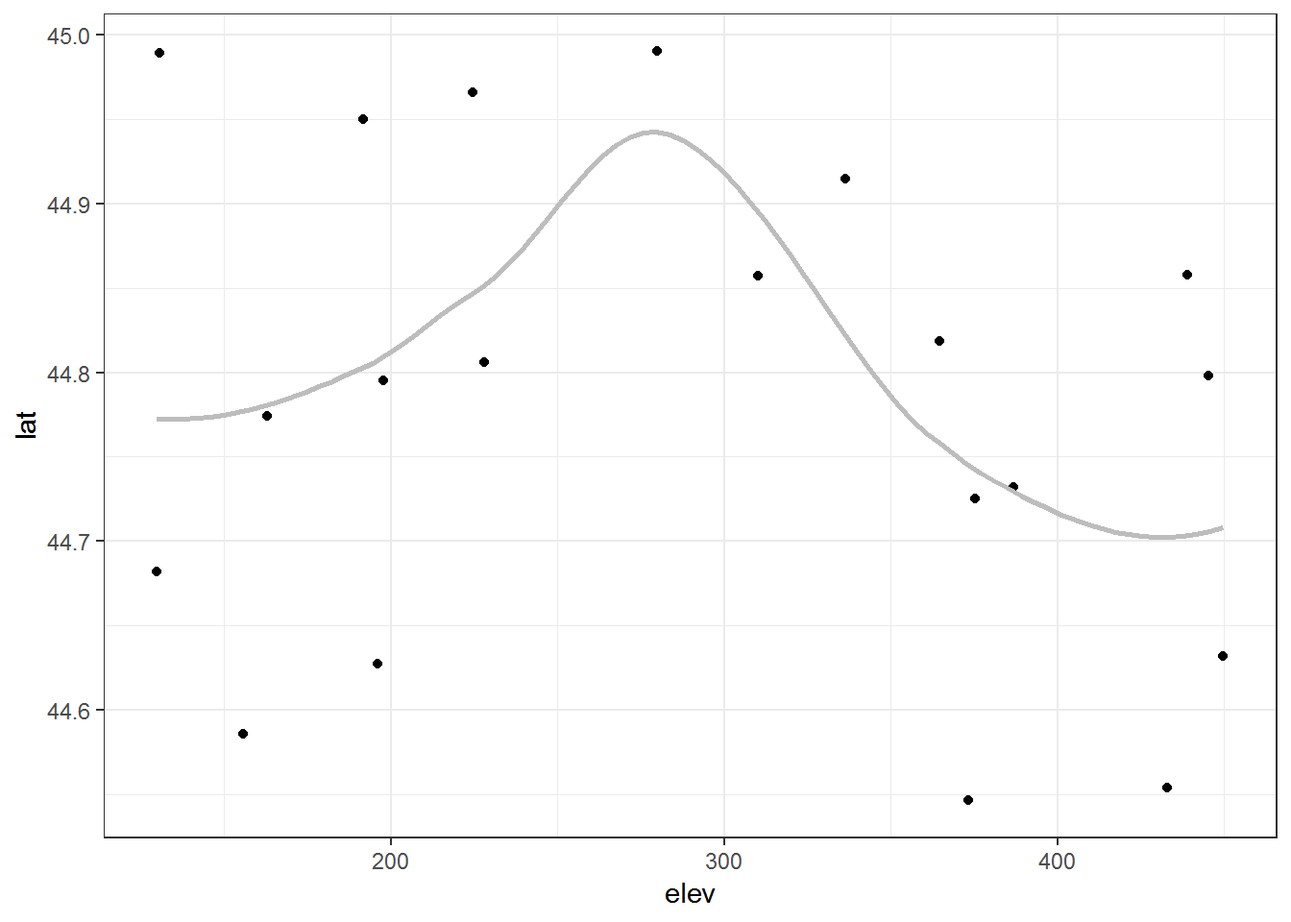
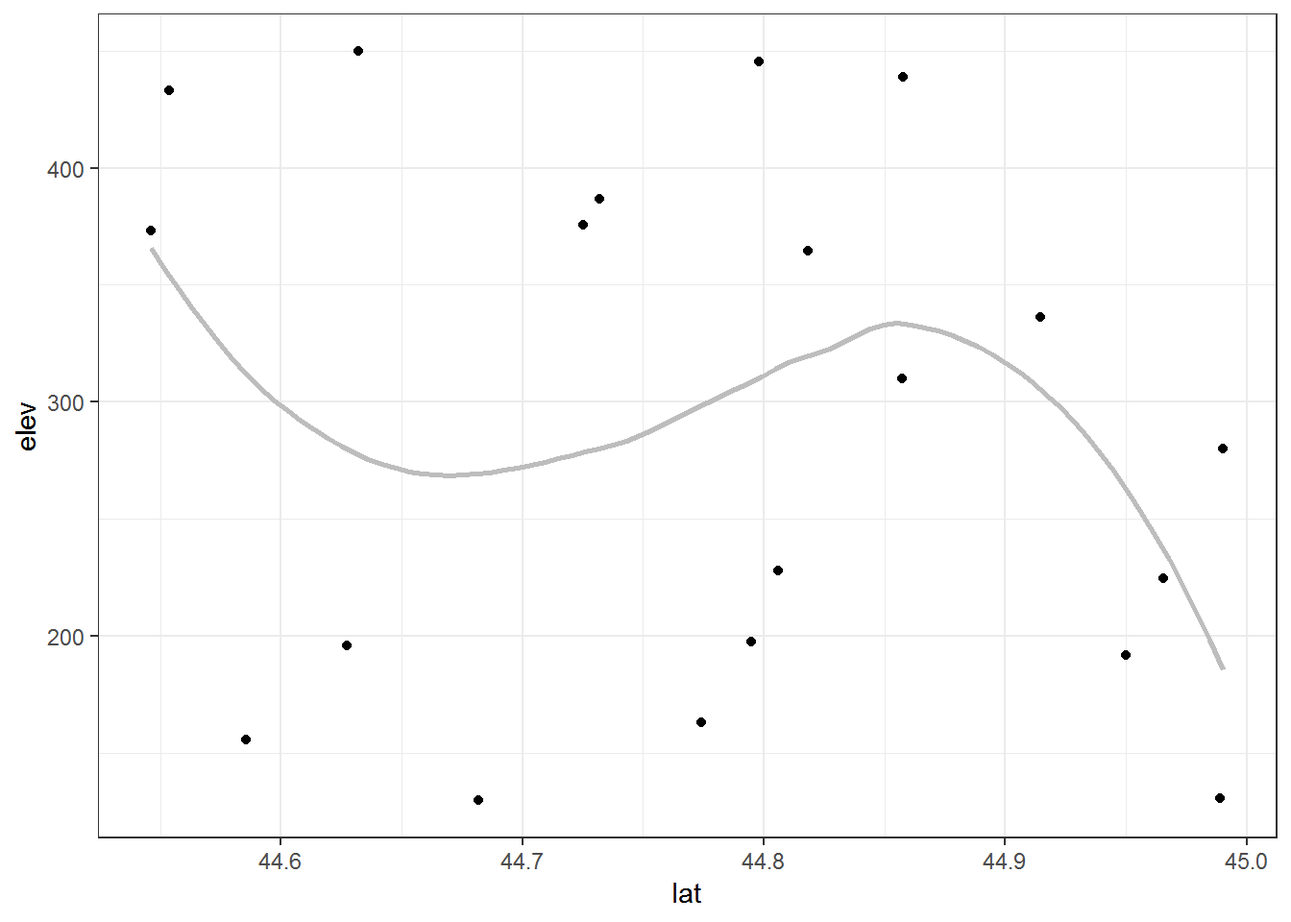
Edits to exploratory plots post

diff --git a/content/post/2018-08-16-automating-exploratory-plots.html b/content/post/2018-08-16-automating-exploratory-plots.html
@@ -9,20 +9,25 @@ tags:
   - ggplot2
   - purrr
 draft: TRUE
-description: "Here I show an example of how to automate the process of making many exploratory plots in ggplot2 with multiple continuous response and explanatory variables.  To loop through both x and y variables involves nested looping.  I end the post talking about some options for saving the results, either individually in a single document, separately, or by stitching plots together prior to saving."
+description: "I show an example of how to automate the process of making many exploratory plots in ggplot2 with multiple continuous response and explanatory variables.  To loop through both x and y variables involves nested looping.  I also spend time reviewing the options for saving the results, either individually in a single document, separately, or by combing plots together into one prior to saving."
 ---
 
 
 
+<p>There have been plenty of times in my own work where I’ve had a lot of variables and needed to make many exploratory plots. I’ve found it’s usually worthwhile to automate the process in R instead of manually copying and pasting code for every single plot.</p>
+<p>However, the coding approach needed to automate plots can look pretty daunting to a beginner R user. It can look so daunting, in fact, that it can appear easier to manually make the plots (like in Excel) rather than using R.</p>
+<p>Unfortunately making plots manually can backfire, as the efficiency of using a software program you already know is quickly out-weighed by being unable to easily reproduce the plots. I know I invariably have to re-make even exploratory plots, and I don’t think my experience is unusual.</p>
+<p>So while I often assure students working under time constraints that it is perfectly OK to use software they already know rather than spending the time to learn how to do something in R, making plots is a special case. I like to students who need to automate plotting in R by providing code with fairly detailed explanation to get them started.</p>
+<p>This post is based on an example I was working on recently, which involves plotting bivariate relationships between many continuous variables.</p>
 <div id="load-r-packages" class="section level1">
 <h1>Load R packages</h1>
-<p>I’ll be plotting with <strong>ggplot2</strong> and doing looping with <strong>purrr</strong>. I’ll also be using package <strong>cowplot</strong> later to stitch together plots, but won’t load it since it changes the theme in <strong>ggplot2</strong>.</p>
+<p>I’ll be plotting with <strong>ggplot2</strong> and looping with <strong>purrr</strong>. I’ll also be using package <strong>cowplot</strong> later to combine individual plots into one, but will use the package functions using <code>cowplot::</code> instead of loading the package.</p>
 <pre class="r"><code>library(ggplot2) # v. 3.0.0
 library(purrr) # v. 0.2.5</code></pre>
 </div>
 <div id="the-set-up" class="section level1">
 <h1>The set-up</h1>
-<p>Today I’m going to make an example dataset with 3 response (y) variables and 4 explanatory (x) variables.</p>
+<p>Today I’m going to make an example dataset with 3 response (<code>y</code>) variables and 4 explanatory (<code>x</code>) variables.</p>
 <pre class="r"><code>set.seed(16)
 dat = data.frame(elev = round( runif(20, 100, 500), 1),
                  resp = round( runif(20, 0, 10), 1),
@@ -39,11 +44,11 @@ head(dat)</code></pre>
 # 4 191.8  4.3 0.07 29.6 44.95022 122.7290 19
 # 5 445.4  2.3 0.43 16.5 44.79784 122.9836 15
 # 6 224.5  6.5 0.78  4.1 44.96576 122.9836 21</code></pre>
-<p>As you can see, every variable is in a separate column. The goal is to make scatterplots for every response variable vs every explanatory variable, where I’ve deemed the first three in the dataset to be the response variables.</p>
-<p>In order to automate things I’m going to need vectors of the variable names to loop through, one for the response and one for the explanatory. If all of your variables share some unique names there are some clever ways to pull out the names of only those variables with some of the select helper functions in <code>dplyr::select()</code>. Alas, mine are all unique. I can either write them out manually or pull the names out by index. I’ll do the latter.</p>
+<p>As you can see, every variable is in a separate column. The goal is to make scatterplots for every response variable vs every explanatory variable. I’ve deemed the first three variables in the dataset to be the response variables.</p>
+<p>In order to automate things I’m going to need vectors of the variable names to loop through, one vector for the response variables and one for the explanatory variables. If all of your response or explanatory variables share some unique pattern in the name there are some clever ways to pull out the names with some of the select helper functions in <code>dplyr::select()</code>. Alas, my variable names are all unique. I can either write them out manually or pull the names out by index. I’ll do the latter.</p>
 <pre class="r"><code>response = names(dat)[1:3]
 expl = names(dat)[4:7]</code></pre>
-<p>When I know I’m going to be looping through character vectors I like to use <em>named</em> vectors to help me keep track of things. The <code>set_names()</code> function in <strong>purrr</strong> is super handy for this, since it will use the values of the vector as names if you don’t supply them (i.e., the vector will be named by itself). This is great for character vectors but I don’t recommend trying this with lists of data.frames like I did, since naming a data.frame with a data.frame just isn’t so useful. 😆</p>
+<p>When I know I’m going to be looping through character vectors I like to use <em>named</em> vectors to help me keep track of things in the output. The <code>set_names()</code> function in <strong>purrr</strong> is super handy for this, since it can use the values of the vector as names (i.e., the vector will be named by itself). This is great for character vectors but I don’t recommend trying this with lists of data.frames like I have in the past, since naming a data.frame with a data.frame isn’t so useful. 😆</p>
 <pre class="r"><code>response = set_names(response)
 response</code></pre>
 <pre><code>#   elev   resp   grad 
@@ -55,20 +60,21 @@ expl</code></pre>
 </div>
 <div id="create-a-graphing-function" class="section level1">
 <h1><a href="#create-a-graphing-function">Create a graphing function</a></h1>
-<p>Since I want a bunch of different plots that nominally have the same form, I can make a function that takes the <code>x</code> and <code>y</code> variables as inputs. In this case I’m making a function to do the work on a single dataset, so the dataset is hard-coded into the function. If you have multiple datasets or you are making a function for use across projects you’ll probably want to use that as a function argument, instead.</p>
-<p>Because the inputs are based on the names, these are strings. We can use strings in <strong>ggplot2</strong> by using <code>aes_string()</code>.</p>
-<p>I’m making a pretty basic graph here since there are exploratory plots. I’m going to add the points as well as a loess line (I use such lines with great caution, as it can be easy to get too attached to what a locally weighted regression line shows).</p>
+<p>Since I’m going to make a bunch of plots that will all have the same form, I can make a function that where only <code>x</code> and <code>y</code> variables vary. In this case I’m making a function to make plots from a single dataset, so I’m going to hard-code the dataset into the function. If you have multiple datasets or you are making a function for use across projects you’ll likely want to add the dataset as a function argument.</p>
+<p>Since the inputs are based on the variable names, so have to be passed into the <strong>ggplot2</strong> functions as strings. Strings can not be used directly in <code>aes()</code>, but can be directly in <code>aes_string()</code>.</p>
+<p>I’m making a pretty basic graph since there are exploratory plots, not publication ready plots. I will make a scatterplot and add locally weighted regression (loess) lines via <code>geom_smooth()</code>. I use such lines with great caution, as it can be easy to get too attached to what the loess line shows.</p>
 <pre class="r"><code>scatter_fun = function(x, y) {
      ggplot(dat, aes_string(x = x, y = y) ) +
           geom_point() +
           geom_smooth(se = FALSE, color = &quot;grey74&quot;) +
           theme_bw()
 }</code></pre>
-<p>Here’s an example of the output, passing in <code>x</code> and <code>y</code> as strings. (What a great example of how small samples can demonstrate strong patterns even when we know the variables aren’t related!).</p>
-<pre class="r"><code>scatter_fun(&quot;elev&quot;, &quot;lat&quot;)</code></pre>
+<p>Here’s an example of the function output, passing in <code>x</code> and <code>y</code> as strings.</p>
+<pre class="r"><code>scatter_fun(&quot;lat&quot;, &quot;elev&quot;)</code></pre>
 <p><img src="/post/2018-08-16-automating-exploratory-plots_files/figure-html/unnamed-chunk-7-1.png" width="672" /></p>
-<p><em>Aside</em>: The <code>aes_string()</code> function has been soft deprecated as of <strong>ggplot2</strong> 3.0.0 and the <strong>tidyeval</strong> methods are now available. For basic functions like mine this new framework is pretty straightforward to use. However, right or wrong, I’ve been hestiant to send code that contains it to the beginner R users I work with. I think the code looks comparatively complicated and “scary” looking compared to using <code>aes_string()</code>.</p>
-<p>To be thorough, below is an example of the same function using <strong>tidyeval</strong>. The output graphic is the same.</p>
+<p><em>Aside</em>: The <code>aes_string()</code> function has been soft deprecated as of <strong>ggplot2</strong> 3.0.0 and <strong>tidyeval</strong> methods are now available. For basic functions like mine this new framework is pretty straightforward to use. However, right or wrong, I’ve been hesitant to send code that contains tidyeval code to the beginner R users I generally work with on these tasks. I think the code looks complicated and “scary” compared to using <code>aes_string()</code>; I may change my mind with time.</p>
+<p>To be thorough, here is an example of the same function using <strong>tidyeval</strong>. I use <code>sym()</code> instead of <code>quo</code> because the inputs are strings.</p>
+<p>The output graphic is the same.</p>
 <pre class="r"><code>scatter_fun2 = function(x, y) {
      ggplot(dat, aes(x = !!sym(x), y = !!sym(y) ) ) +
           geom_point() +
@@ -76,15 +82,15 @@ expl</code></pre>
           theme_bw()
 }
 
-scatter_fun2(&quot;elev&quot;, &quot;lat&quot;)</code></pre>
+scatter_fun2(&quot;lat&quot;, &quot;elev&quot;)</code></pre>
 <p><img src="/post/2018-08-16-automating-exploratory-plots_files/figure-html/unnamed-chunk-8-1.png" width="672" /></p>
 </div>
 <div id="looping-through-one-vector-of-variables" class="section level1">
 <h1><a href="#looping-through-one-vector-of-variables">Looping through one vector of variables</a></h1>
-<p>One way to use this function is to fix the response variable and loop through the explanatory variables, making a plot for each one. That way each response variable has a separate list as output.</p>
-<p>I will use <code>map()</code> from package <strong>purrr</strong> to loop through each explanatory variable and plot it. I’ll fix the response variable to <code>elev</code>.</p>
+<p>One way to use this function is to loop through each explanatory variable for a fixed response variable. I will use <code>map()</code> from package <strong>purrr</strong> to loop through the explanatory variables.</p>
+<p>I pass each explanatory variable to the first argument in <code>scatter_fun()</code> and I fix the second argument to <code>&quot;elev&quot;</code>. I use the formula coding in <code>map()</code> and so refer to the element of the explantory vector via <code>.x</code>.</p>
 <pre class="r"><code>elev_plots = map(expl, ~scatter_fun(.x, &quot;elev&quot;) )</code></pre>
-<p>This makes four plots, one for each explanatory variable. You’ll notice that each element of the list (so each plot) has a variable name associated with it. This is why I used <code>set_names()</code> earlier, because this is convenient for printing and, you’ll see later, is convenient when saving the plots with useful names.</p>
+<p>The output is a list of 4 plots (since there are four explanatory variables). You’ll notice that each element of the list has the variable name associated with it. This is why I used <code>set_names()</code> earlier, since this is convenient for printing the plots and, you’ll see later, is convenient when saving the plots to files with understandable names.</p>
 <pre class="r"><code>elev_plots</code></pre>
 <pre><code># $slp</code></pre>
 <p><img src="/post/2018-08-16-automating-exploratory-plots_files/figure-html/unnamed-chunk-10-1.png" width="672" /></p>
@@ -100,14 +106,14 @@ scatter_fun2(&quot;elev&quot;, &quot;lat&quot;)</code></pre>
 </div>
 <div id="looping-through-both-vectors" class="section level1">
 <h1><a href="#looping-through-both-vectors">Looping through both vectors</a></h1>
-<p>The work above works well for only a few response variables. But it still involves using the same code for each set of plots, which can get burdensome of there are a lot of response variables.</p>
-<p>It is possible to loop through both vectors of variables. Because we want a plot for each combination of variables, this is a job for a <em>nested</em> loop. This means I will do one <code>map()</code> loop inside another.</p>
-<p>The code gets more complicated. If using the formula coding like I did above, I found it takes more work to understand how to refer to the variable in the outer loop within the inner loop. The answers to <a href="https://stackoverflow.com/questions/48847613/purrr-map-equivalent-of-nested-for-loop">this question</a> on Stack Overflow were useful for this (including some of the comments to answers). One approach is to avoid the formula coding all together and use anonymous functions for either or both inner and outer loops.</p>
-<p>I loop first through the response variables and make graphs with all of the explanatory variables for each one with the nested inner loop. This puts the output, a nested list, in a convenient order.</p>
-<p>Since my scatterplot function is simple, I ended up using formula coding for the outer loop and simply listed the function in the inner loop. The inner list elements are then fed to the first argument in <code>scatter_fun()</code> (which makes sense since these are the <code>x</code> variables). The <code>.x</code> then refers to the outer list elements, and this is passed to the <code>y</code> argument in the second <code>map()</code>.</p>
+<p>For only a few response variables we could easily copy and paste the code, changing the hard-coded response variable each time. This process can get burdensome of there are a lot of response variables, though.</p>
+<p>It is possible to loop through both vectors of variables. Because we want a plot for each combination of variables, this is a job for a <em>nested</em> loop. This means I will do one <code>map()</code> loop inside another. I will refer to the first <code>map()</code> as the <em>outer</em> loop and the second one as the <em>inner</em> loop.</p>
+<p>The nested loop leads to more complicated code. I found it takes more work to understand how to refer to the list element from the outer loop within the inner loop if I want to stick to using the <code>map()</code> formula coding I used above. I found the answers/comments to <a href="https://stackoverflow.com/questions/48847613/purrr-map-equivalent-of-nested-for-loop">this question</a> on Stack Overflow helpful in understanding how to approach nested loops via <code>map()</code>. One approach is to avoid the formula coding all together and use anonymous functions for either or both the inner and outer loops.</p>
+<p>I’m going to have the response variables in the outer loop and the explanatory variables in the inner loop. That way I graph all of the explanatory variables for each response variable before moving on to the next response variable. This puts the output, a nested list, in a logical order.</p>
+<p>Since my scatterplot function is simple, I ended up using formula coding for the outer loop and the function as is in the inner loop. The inner list elements are fed to the first argument of <code>scatter_fun()</code> (which works great since the first argument is for the <code>x</code> variables). The <code>.x</code> then refers to the outer list elements, which are passed to the <code>y</code> argument in the inner loop.</p>
 <pre class="r"><code>all_plots = map(response,
                 ~map(expl, scatter_fun, y = .x))</code></pre>
-<p>The output is a list of lists. Each sublist is all the plots for a single response variable (remember, I planned things this way). Because I set the names on the two vectors, both the inner and outer lists have names.</p>
+<p>The output is a list of lists. Each sublist is all the plots for a single response variable. Because I set the names for the two vectors of variable names, both the inner and outer lists have names. These can be used to pull out individual plots.</p>
 <p>For example, if I want to see all the plots for the <code>grad</code> response variable I can print that sublist by name. (I’m going to show only two of four <code>grad</code> plots here to save space.)</p>
 <pre class="r"><code>all_plots$grad</code></pre>
 <pre><code># $slp</code></pre>
@@ -115,33 +121,35 @@ scatter_fun2(&quot;elev&quot;, &quot;lat&quot;)</code></pre>
 <pre><code># 
 # $lat</code></pre>
 <p><img src="/post/2018-08-16-automating-exploratory-plots_files/figure-html/unnamed-chunk-13-2.png" width="576" /></p>
-<p>If I want to see a single plot, I can also use the names to extract it.</p>
+<p>If I want to see a single plot, I can first extract one of the sublists using one of the outer list names and then extact the individual plot via an inner list name.</p>
 <pre class="r"><code>all_plots$grad$long</code></pre>
 <p><img src="/post/2018-08-16-automating-exploratory-plots_files/figure-html/unnamed-chunk-14-1.png" width="672" /></p>
-<p>I find the names convenien, but I can always extract via position, as well. Here’s the same graph as above.</p>
+<p>I find the names convenient, but you can also extract plost via position. Here’s the same graph, the third element of the third list.</p>
 <pre class="r"><code>all_plots[[3]][[3]]</code></pre>
 <pre><code># `geom_smooth()` using method = &#39;loess&#39; and formula &#39;y ~ x&#39;</code></pre>
 <p><img src="/post/2018-08-16-automating-exploratory-plots_files/figure-html/unnamed-chunk-15-1.png" width="672" /></p>
 <div id="saving-the-plots" class="section level2">
 <h2><a href="#saving-the-plots">Saving the plots</a></h2>
-<p>Once you have all the graphs, you can print them to your console by running the list name to look at them. But if you want to puruse them at your leisure or send them to a collaborator you’ll want to save them. This next section is dedicated to exploring some of the ways you can do this.</p>
+<p>Once we have all the graphs, we can look at them in R by printing the list or parts of the list as above. But if you want to peruse them at your leisure or send them to a collaborator you’ll want to save them outside of R.</p>
+<p>This next section is dedicated to exploring some of the ways you can do this.</p>
 </div>
 <div id="saving-all-plots-to-one-pdf" class="section level2">
 <h2><a href="#saving-all-plots-to-one-pdf">Saving all plots to one PDF</a></h2>
-<p>If you want to save every plot as a separate page in a PDF, you can do so with the <code>pdf()</code> function. The code below shows that the plot must be initialized, then all plots put in it, and then the device turned off. If you skip the last step you won’t be able to open the output document.</p>
-<p>This is a coarse way to save everything, but also allows you to easily page through all the plots and revisit as necessary. I’ve found this useful when I had many exploratory plots that I wanted to share with collaborators.</p>
-<p>In this example code I save the file I name <code>all_scatterplots</code> into the working directory.</p>
+<p>If you want to save every plot as a separate page in a PDF, you can do so with the <code>pdf()</code> function. The code below shows how this work. A graphics device to save the plots into is created and given a name via <code>pdf()</code>, all the plots are put into that device, and then the device turned off with <code>dev.off()</code>. The last step is important, as you can’t open the file until the device is turned off.</p>
+<p>I’d say this is a pretty coarse way to save everything, but it allows you to easily page through all the plots. I’ve used this method when I had many exploratory plots for a single response variable that I wanted to share with collaborators.</p>
+<p>In this example code I save the file, which I name <code>all_scatterplots.pdf</code>, into the working directory.</p>
 <pre class="r"><code>pdf(&quot;all_scatterplots.pdf&quot;)
 all_plots
 dev.off()</code></pre>
 </div>
 <div id="saving-groups-of-plots-together" class="section level2">
 <h2><a href="#saving-groups-of-plots-together">Saving groups of plots together</a></h2>
-<p>Another option, for organization, is to save each group of plots to a separate list. This may make sense in this case where there are separate response variables to think about.</p>
-<p>To save each sublist separately we need to loop through <code>all_plots</code> and save it into a separate file. The list names can be used in the plot names.</p>
-<p>The functions in <strong>purrr</strong> that start with <code>i</code> are special functions that loop through a list and the names of the list simultaneously, which is handy for a case like this where we have names to identify the plots.</p>
-<p>The <code>walk()</code> function is part of the <code>map</code> family of functions uses the function only for the side effect. This is what we want for saving plots, since our goal is not to output a new list but simply save the one we have.</p>
-<p>Combining the <code>i</code> and the <code>walk</code> gives as the <code>iwalk()</code> function. In the formula function interface, <code>.y</code> refers to the names of the list and <code>.x</code> to the list elements. I create the plot file names using the list name combined with “scatterplots.pdf”.</p>
+<p>Another option is to save each group of plots to a separate document. This may make sense in a case like this where there are a group of plots for separate response variables so we might want a separate file of plots for each one.</p>
+<p>To save each sublist separately we need to loop through <code>all_plots</code> and save the plots for each response variable as a separate file. The list names can be used in the file names.</p>
+<p>The functions in <strong>purrr</strong> that start with <code>i</code> are special functions that loop through a list and the names of that list simultaneously. This is a convenient function in a case like this where we want to use the list names to identify the output files.</p>
+<p>The <code>walk()</code> function is part of the <code>map</code> family, to be used when you want to use a function for its side effects instead of for the return value. This is exactly what we are doing when looping and saving plots, since our goal is not to make a new list but to save the one we have.</p>
+<p>Combining the <code>i</code> and the <code>walk</code> gives us the <code>iwalk()</code> function. In the formula interface, <code>.y</code> refers to the names of the list and <code>.x</code> to the list elements. I create the plot file names using the list name combined with “scatterplots.pdf”.</p>
+<p>The code below makes three files, one for each response variable, with four plots each. The files are named “elev_scatterplots.pdf”, “resp_scatterplots.pdf”, and “grad_scatterplots.pdf”.</p>
 <pre class="r"><code>iwalk(all_plots, ~{
      pdf(paste(.y, &quot;scatterplots.pdf&quot;, sep = &quot;_&quot;) )
      print(.x)
@@ -150,8 +158,9 @@ dev.off()</code></pre>
 </div>
 <div id="saving-all-plots-separately" class="section level2">
 <h2><a href="#saving-all-plots-separately">Saving all plots separately</a></h2>
-<p>We’d need to use the names in both the outer and inner lists to appropriately identify each plot. I decided to this by looping through <code>all_plots</code> and the names of the list via <code>imap()</code> to create names. This time I’m going to save these as PNG files.</p>
-<p>The result will be a list of lists still, so I flatten the list into a single list via <code>flatten()</code>. If I use <code>flatten()</code> earlier I lose the names in the outer list. This process of combining names will be simplified once <a href="https://github.com/tidyverse/purrr/issues/525">the proposed <code>flatten_names()</code> function</a> is added to <strong>purrr</strong>.</p>
+<p>All plots can be saved separately instead of combined in a single document. This might be necessary if you need to insert the plots into some larger document later.</p>
+<p>We’ll want to use the names of both the outer and inner lists to appropriately identify each plot. I decided to this by looping through <code>all_plots</code> list and the names of the list via <code>imap()</code> to make appropriate file names. This time I’m going to save these as PNG files so use <code>.png</code> at the end of the file name instead of <code>.pdf</code>.</p>
+<p>The result will be a list of lists still, so I flatten it into a single list via <code>flatten()</code>. If I were use <code>flatten()</code> earlier in the process I’d lose the names in the outer list. This process of combining names will be simplified once <a href="https://github.com/tidyverse/purrr/issues/525">the proposed <code>flatten_names()</code> function</a> is added to <strong>purrr</strong>.</p>
 <pre class="r"><code>plotnames = imap(all_plots, ~paste0(.y, &quot;_&quot;, names(.x), &quot;.png&quot;)) %&gt;%
      flatten()
 plotnames</code></pre>
@@ -190,19 +199,21 @@ plotnames</code></pre>
 # 
 # [[12]]
 # [1] &quot;grad_nt.png&quot;</code></pre>
-<p>With the file names created I can loop through all the plots and the file names simultaneously and save things via <code>ggsave()</code>. The height and width of each output file can be set.</p>
+<p>With the file names created I can loop through all the plots and the file names simultaneously and save things via <code>ggsave()</code>. The height and width of each output file can be set as needed.</p>
 <p>I flatten the nested list of plots to loop through it and the file names simultaneously in <code>walk2()</code> and save each plot in a separate file.</p>
 <pre class="r"><code>walk2(flatten(all_plots), plotnames, ~ggsave(filename = .y, plot = .x, 
                                          height = 7, width = 7))</code></pre>
 </div>
-<div id="stitching-plots-together-in-groups" class="section level2">
-<h2><a href="#stitching-plots-together-in-groups">Stitching plots together in groups</a></h2>
-<p>Another way to get all the plots together, depending on how many you have per response variable, is to stitch them into one plot. This is like faceting except we didn’t reshape our dataset to use faceting. I like <strong>cowplot</strong> for this, as a list of plots can be passed via the <code>plotlist</code> argument.</p>
+<div id="combining-plots" class="section level2">
+<h2><a href="#combining-plots">Combining plots</a></h2>
+<p>Another way to get all the plots together, depending on how many you have per response variable, is to combine them into one plot. This is a lot like faceting, except we didn’t reshape our dataset to allow the use faceting.</p>
+<p>I like the <strong>cowplot</strong> function <code>plot_grid()</code> for combining multiple plots into one. A list of plots can be passed via the <code>plotlist</code> argument.</p>
 <p>Here’s what that looks like for the first response variable, <code>elev</code>.</p>
 <pre class="r"><code>cowplot::plot_grid(plotlist = all_plots[[1]])</code></pre>
 <p><img src="/post/2018-08-16-automating-exploratory-plots_files/figure-html/unnamed-chunk-20-1.png" width="672" /></p>
-<p>We can use a loop to do this for all the sublists, shown below, which could then be saved in any of the way shown above.</p>
-<pre class="r"><code>map(all_plots, ~cowplot::plot_grid(plotlist = .x))</code></pre>
+<p>We can use a loop to do this for all the sublists, shown below, which could then be saved using any of the approaches shown above.</p>
+<pre class="r"><code>response_plots = map(all_plots, ~cowplot::plot_grid(plotlist = .x))
+response_plots</code></pre>
 <pre><code># $elev</code></pre>
 <p><img src="/post/2018-08-16-automating-exploratory-plots_files/figure-html/unnamed-chunk-21-1.png" width="672" /></p>
 <pre><code># 
